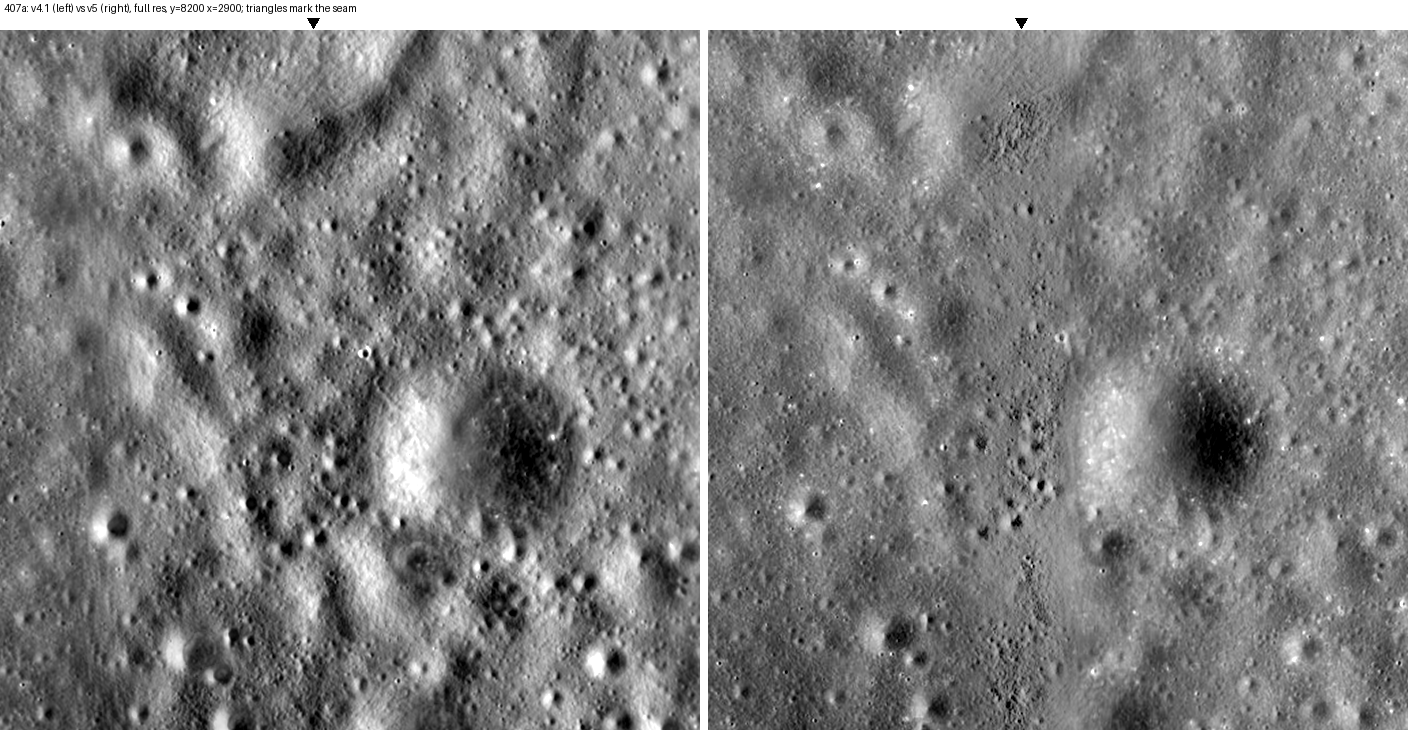
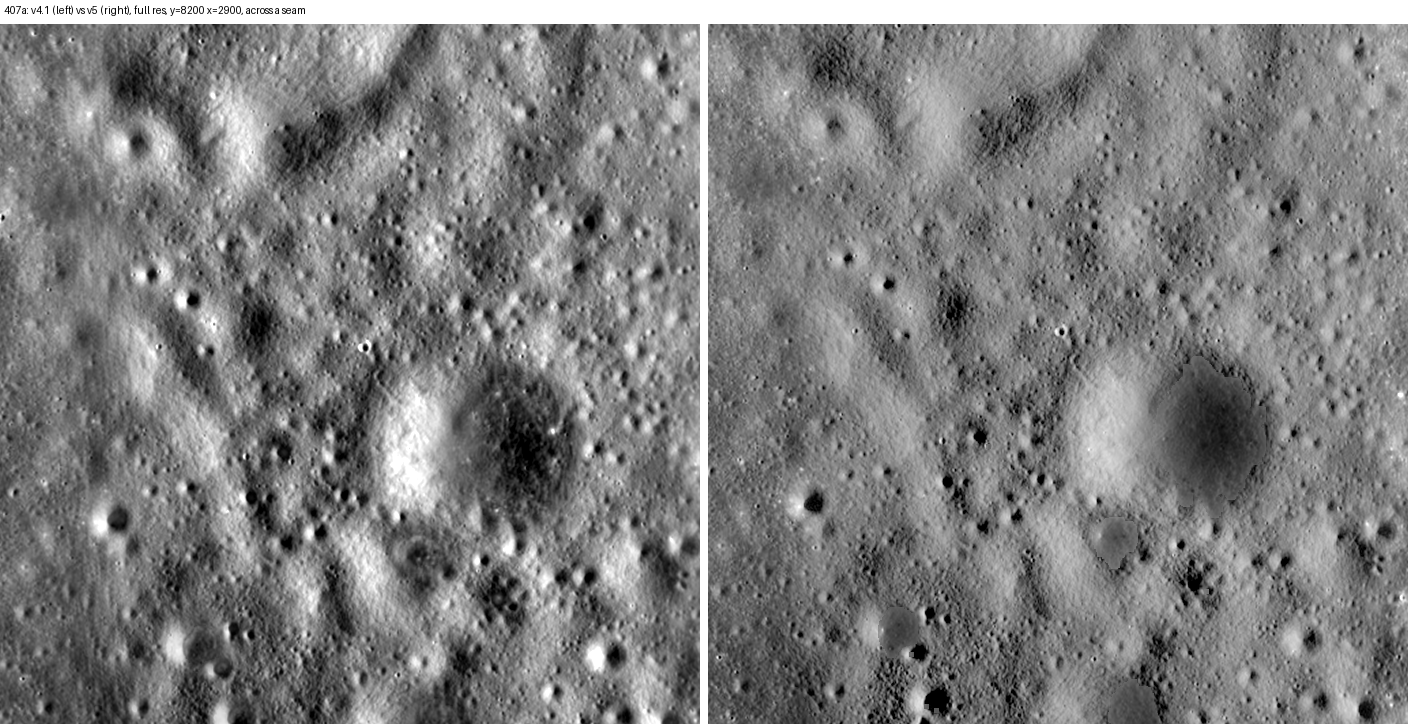
v5: restore v4.1 wide seam blending
Per review of 407g, the narrow traced seam bands read as vertical stripes.
Seam handling now matches v4.1; everything else is unchanged.

- Seamless masks around detected seams use v4.1's wide feathered policy
  (masks_from_regions); repair stages use v4.1's +-32 px masks.
- Morning/Evening fill detail at full scale again (as v4.1), contrast
  matched at 32 px.
- Evening displacement field measured against warped Seamless instead of
  Morning, which is dark where Evening is needed (407g crater).
- Evening fill detail halved (EVENING_FILL_SCALE) so opposite-sun relief
  reads as texture, not bright dots.
- Samples refreshed from this version; seam overviews added.

217h: 99.5% byte-identical to the previous checkpoint. Repair-stage
changes: 217h 0.01%, 407a 0.74%, 407g 2.4% (v4.1: 5.3%, 5.4%, 9.7%).

Claude-Session: https://claude.ai/code/session_01WPb35kRjus4hG34b6B4wts

diff --git a/pipeline/lunar_texture_auto.py b/pipeline/lunar_texture_auto.py
@@ -87,17 +87,17 @@ def prepare(orbiter, paths, settings=Settings(), quiet=False):
     match_detail_gains(sources,transforms,report,N)
     return sources,transforms,report
 
-SEAM_FADE = 48.0
+EVENING_FILL_SCALE = .5
 
 def seamless_masks(strips,N):
-    """Traced seam paths when available; narrow axis-aligned bands otherwise."""
-    import lunar_geometry
-    if lunar_geometry.SEAM_PATHS:
-        others=[r for r in strips if r['axis']!='x']
-        return lunar_geometry.path_masks(lunar_geometry.SEAM_PATHS)+ls.narrow_masks(others,N)
-    return ls.narrow_masks(strips,N)
+    """v4.1 seam handling: wide feathered bands around detected seams.
 
-def match_detail_gains(sources,transforms,report,N,windows=4,size=768,sigma=8):
+    Seamless fades out over ~330 px around each seam and Morning/Evening fill
+    the band, so neighbouring strips blend gradually instead of meeting at a
+    line. (Traced seam paths still group strips for the geometry warp.)"""
+    return masks_from_regions(strips,N)
+
+def match_detail_gains(sources,transforms,report,N,windows=4,size=768,sigma=32):
     """Scale Morning/Evening relative detail to Seamless contrast.
 
     Measured at full resolution in a fixed grid of windows where both sources
@@ -128,6 +128,10 @@ def match_detail_gains(sources,transforms,report,N,windows=4,size=768,sigma=8):
                     num+=float(np.median(np.abs(ds-np.median(ds))))*ds.size
                     den+=float(np.median(np.abs(dn-np.median(dn))))*ds.size
         gain=float(np.clip(num/den,.15,1.5)) if den>0 else 1.0
+        if name=='Evening':
+            # Opposite-sun relief (used with reversed polarity) is only a
+            # stand-in; keep it subdued so it reads as texture, not features.
+            gain*=EVENING_FILL_SCALE
         report['sources'][name]['detail_gain']=gain
         report['detail_gains'][name]=gain
         print(name,'detail gain relative to Seamless',round(gain,3),flush=True)
@@ -138,19 +142,13 @@ def source_detail(name,a,transform,strips,yy,xx,N,sigma,settings,gain=1.0):
     v, ok = ls.sample(a,sy,sx)
     valid = apply_masks(ok.astype(np.float32),strips,sy,sx,N)
     denom = gaussian_filter(valid,sigma)
-    # Low-sun products fill gaps with texture only (<= 8 px): their broad
-    # shading would print as streaks; broad tone comes from the reference.
-    detail_sigma = sigma if name=='Seamless' else min(sigma,8)
+    # As in v4.1, every product contributes detail at the same scale, so the
+    # wide seam blend keeps full structure across the fill band.
+    detail_sigma = sigma
     # Evening relief has opposite illumination; use its relief with reversed polarity.
     d = ls.detail(v,valid,detail_sigma,(-gain if name=='Evening' else gain)*ls.gain_at(yy,xx,N))
 
     weight = gaussian_filter(valid,4)*np.clip(denom/.7,0,1)
-    seams=[m for m in strips if m.get('kind')=='path']
-    if seams:
-        # Cross-fade into traced seam bands over ~48 px so the filled band
-        # does not read as a distinct stripe; small holes keep tight edges.
-        wide=apply_masks(np.ones_like(valid),[dict(m,feather=SEAM_FADE) for m in seams],sy,sx,N)
-        weight *= wide*wide*(3-2*wide)
     return d, weight
 
 def blend(orbiter,sources,transforms,report,settings=Settings(),quiet=False,source_workers=1,output_size=12288):

diff --git a/pipeline/full_tile_trial.py b/pipeline/full_tile_trial.py
@@ -16,7 +16,7 @@ import numpy as np
 from PIL import Image
 from scipy import ndimage as ndi
 from frozen_algorithm import smoothstep,large,outside_distance,harmonic,mincut,bands
-from repair_lunar_detail import coordinates,refined_masks,local_agreement
+from repair_lunar_detail import coordinates,refined_masks,local_agreement,_legacy_refined_masks
 from lunar_mask_policy import apply_masks,masks_from_regions
 from lunar_io import sources_reused,resize_source
 import lunar_source as ls
@@ -93,7 +93,7 @@ class Trial:
         availability=self.create('availability','bool');availability[:]=False
         for name in self.source_names:
             aligned=self.create('aligned_'+name,'uint16');validmap=self.create('valid_'+name,'bool')
-            masks=(original[name]['masks'] if name=='Seamless' else masks_from_regions(original[name]['strips']) if name=='Evening' else original[name]['masks'])
+            masks=(_legacy_refined_masks(original[name]['strips']) if name=='Seamless' else masks_from_regions(original[name]['strips']) if name=='Evening' else original[name]['masks'])
             for start,end,lo,hi,sl in self.stripes(block=512):
                 yy,xx=np.mgrid[start:end,:self.n].astype(np.float32)
                 sy,sx=coordinates(transforms[name],yy,xx,name)

diff --git a/pipeline/lunar_geometry.py b/pipeline/lunar_geometry.py
@@ -276,8 +276,11 @@ def align_products(sources, strips, scale_seamless, report=None, min_reliable=.5
             anchor = 'Morning'
             report['seamless_field_range_yx'] = [[float(-field[..., k].max()), float(-field[..., k].min())] for k in range(2)]
     if 'Evening' in sources:
-        ref, ref_scale = (sources['Morning'], 1.0) if anchor == 'Morning' else (S, scale_seamless)
-        raw, scores = measure(ref, ref_scale, sources['Evening'], 1.0)
+        # Evening is measured against Seamless (already warped into the
+        # anchor frame): Seamless has data nearly everywhere, whereas Morning
+        # is dark in exactly the shadowed areas where Evening is needed.
+        raw, scores = measure(S, scale_seamless, sources['Evening'], 1.0,
+                              ref_name='Seamless' if 'Seamless' in FIELDS else None)
         good = np.isfinite(raw[..., 0])
         report['evening_reliable_cells_percent'] = 100 * float(good.mean())
         report['evening_median_score'] = float(np.median(scores))

diff --git a/pipeline/repair_lunar_detail.py b/pipeline/repair_lunar_detail.py
@@ -191,7 +191,7 @@ def repair(orbiter, seamless, morning, evening, processed, diagnostics, output):
                      'Seamless':np.zeros_like(yy),'Evening':np.zeros_like(yy)}
         new_details, new_weights = details.copy(), weights.copy()
         new_details['Seamless'], new_weights['Seamless'] = recovered_detail('Seamless', sources['Seamless'],
-                   transforms['Seamless'], recorded['Seamless']['masks'], yy, xx)
+                   transforms['Seamless'], _legacy_refined_masks(recorded['Seamless']['strips']), yy, xx)
         if evening_transform is not None:
             new_details['Evening'], new_weights['Evening'] = recovered_detail('Evening', sources['Evening'],
                      evening_transform, masks_from_regions(recorded['Evening']['strips']), yy, xx, confidence,

diff --git a/pipeline/CHANGES_v5.md b/pipeline/CHANGES_v5.md
@@ -43,12 +43,17 @@ All source handling goes through `lunar_source.py` and `lunar_geometry.py`.
    field. The Orbiter reference is resampled onto the anchor grid instead of
    shifting Kaguya, so tile edges keep real data. Falls back to the Seamless
    grid if Morning cannot be registered.
-5. **Seams.** Seams are traced row by row (they wander tens of pixels),
-   using steps in brightness and in texture contrast so narrow slivers of a
-   third, low-sun strip are excluded with the join. Only the traced span
-   plus 16 px is excluded (v4.1 removed ~700 px around
-   a fixed column). Local means are computed separately on each side so a
-   brightness step between strips never leaks into the detail.
+5. **Seams: v4.1 behaviour restored.** Seamless is excluded around each
+   detected seam with v4.1's wide feathered masks (about +-170 px plus half
+   the seam width, fading over 160 px) and the repair stages use v4.1's
+   narrower masks (+-32 px, 64 px fade). Morning, then Evening, fill the band
+   at full detail scale, so neighbouring strips blend gradually. Seams are
+   still traced row by row, but only to group Seamless strips for the
+   geometry warp. Two changes to the fill: Evening is aligned against warped
+   Seamless (Morning is often dark exactly where Evening is needed), and
+   Evening fill detail is halved (`EVENING_FILL_SCALE = .5`) because its
+   opposite-sun relief, used with reversed polarity, otherwise prints bright
+   dots.
 6. **Shadows and penumbra.** Log detail is smoothly limited (tanh, about
    x0.37..x2.7), so near-black penumbra samples cannot print dark slots.
    Where no product has data and the reference is dark (permanent shadow),
@@ -74,17 +79,17 @@ Set `LUNAR_DEBUG_DIR` to keep intermediate masks.
 | tile | v4.1 | v5 |
 |------|------|----|
 | 217h | 5.3% | 0.01% |
-| 407a | 5.4% | 0.45% |
-| 407g | 9.7% | 1.6% |
+| 407a | 5.4% | 0.74% |
+| 407g | 9.7% | 2.4% |
+
+217h is 99.5% byte-identical to the previous v5 checkpoint (it has no seams).
 
 ## Known open items
 
-- Wide seam bands filled with Morning texture can read as a speckled
-  vertical band (softened by a 48 px cross-fade). A mirrored-Seamless fill
-  was tried and rejected: it creates symmetric chevrons on structured
-  terrain such as crater rims. Candidates: short edge mirroring plus
-  attenuated Morning texture; v4.1-style wide masking on the new geometry;
-  quilting restricted to neighbouring Seamless.
+- Seam bands use Morning/Evening (low-sun) texture and, where both are dark,
+  quilted texture, as in v4.1; at full resolution a band can show low-sun
+  relief or borrowed texture, but it does not read as a stripe.
+- Small no-data spots can be filled as smooth patches by the tone solve.
 - Mosaic patches inside Seamless that are not north-south seams (e.g. a
   higher-sun patch on a crater floor) can leave a faint outline.
 - Neighbor-tile boundaries (aprons) not yet addressed.
